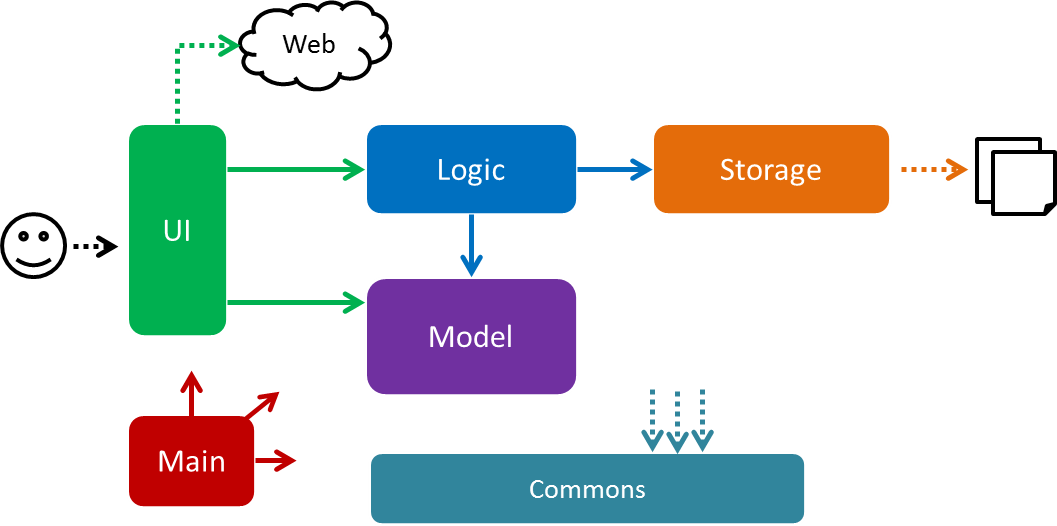
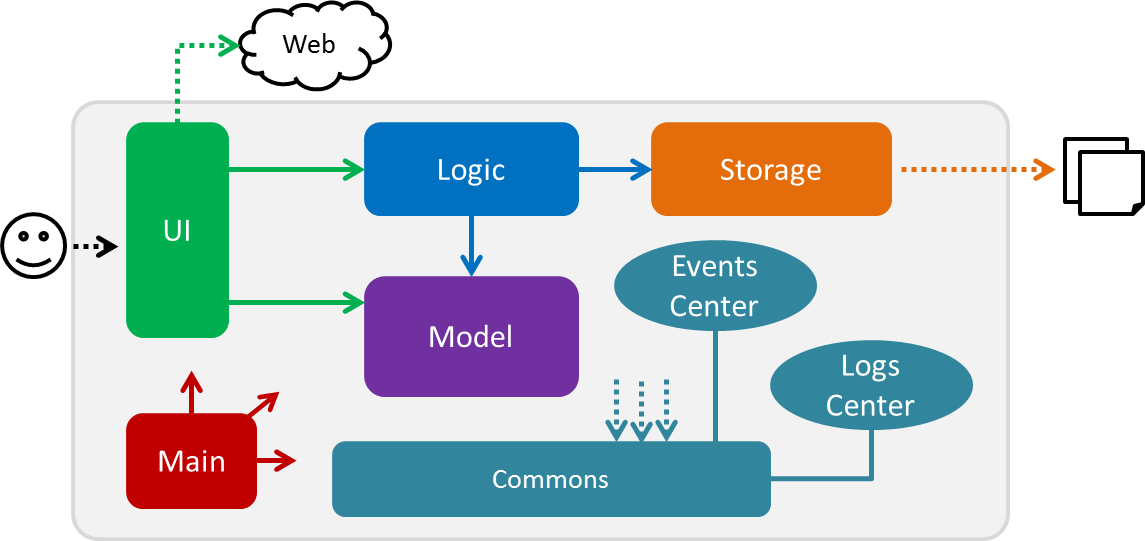
Add sequence diagrams

Changed region(s): [[0.0, 0.0, 1.0, 1.0], [0.8742, 0.943, 0.9054, 0.9734], [0.8742, 0.2129, 0.9054, 0.2433]]

diff --git a/docs/DeveloperGuide.md b/docs/DeveloperGuide.md
@@ -46,6 +46,10 @@ Given below is a quick overview of each component.
 * At shut down: Shuts down the components and invoke clean up method where necessary.
 
 [**`Commons`**](#common-classes) represents a collection of classes used by multiple other components.
+Two of those classes play an important role at the architecture level.
+* `EventsCentre` : This class (written using [Google's Event Bus library](https://github.com/google/guava/wiki/EventBusExplained)
+  is used to communicate between components using events (i.e. a form of _Event Driven_ design)
+* `LogsCenter` : Used by many classes to get log information to the App's log files.
 
 The rest of the App consists four components.
 * [**`UI`**](#ui-component) : The UI of tha App.
@@ -56,6 +60,18 @@ The rest of the App consists four components.
 Each of the four components
 * Defines its _API_ an interface with the same name as the Component. `Logic.java`
 * Exposes its functionality using a `{Component Name}Manager` class e.g. `LogicManager.java`
+
+The _Sequence Diagram_ below shows how the components interact for the scenario where the user issues the
+command `delete 3`. Note how the `Model` simply raises a `ModelChangedEvent` when the model is changed,
+instead of asking the `Storage` to save the updates to the hard disk.
+
+<img src="images\SDforDeletePerson.png" width="800"><br>
+
+The diagram below shows how the `EventsCenter` reacts to that event, which eventually results in the updates
+being saved to the hard disk. As the event was propagated through the `EventsCenter`, `Model` did not need
+to be coupled to the `Storage`. This is an example of how this Event Driven approach helps us reduce coupling
+between components. <br>
+<img src="images\SDforDeletePersonEventHandling.png" width="600"><br>
 
 The sections below give more details of each component.
 
@@ -188,6 +204,7 @@ Priority | As a ... | I want to ... | So that I can...
 `* *` | user | hide [private contact details](#private-contact-detail) by default | minimize chance of someone else seeing them by accident
 `*` | user with many persons in the address book | sort persons by name | locate a person easily
 
+{More to be added}
 
 ## Appendix B : Use Cases
 
@@ -214,12 +231,16 @@ Use case ends.
 > 3a1. AddressBook shows an error message <br>
   Use case resumes at step 2
 
+{More to be added}
+
 ## Appendix C : Non Functional Requirements
 
-1. Should work on any [mainstream OS](#mainstream-os) as long as it has Java 8 or higher installed.
+1. Should work on any [mainstream OS](#mainstream-os) as long as it has Java `1.8.0_60` or higher installed.
 2. Should be able to hold up to 1000 persons.
 3. Should come with automated unit tests and open source code.
 4. Should favor DOS style commands over Unix-style commands.
+
+{More to be added}
 
 ## Appendix D : Glossary
 
